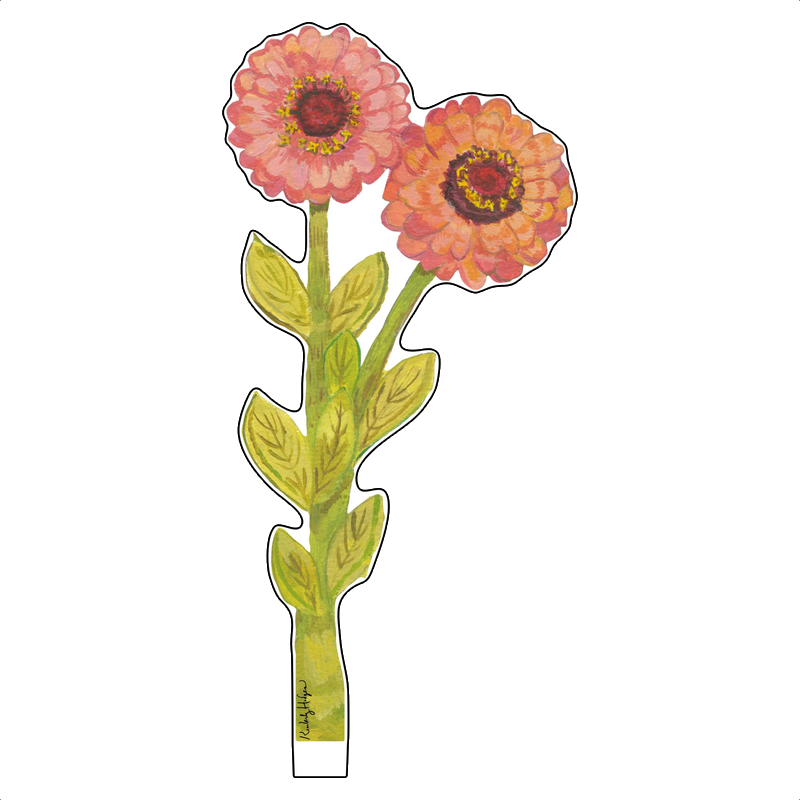
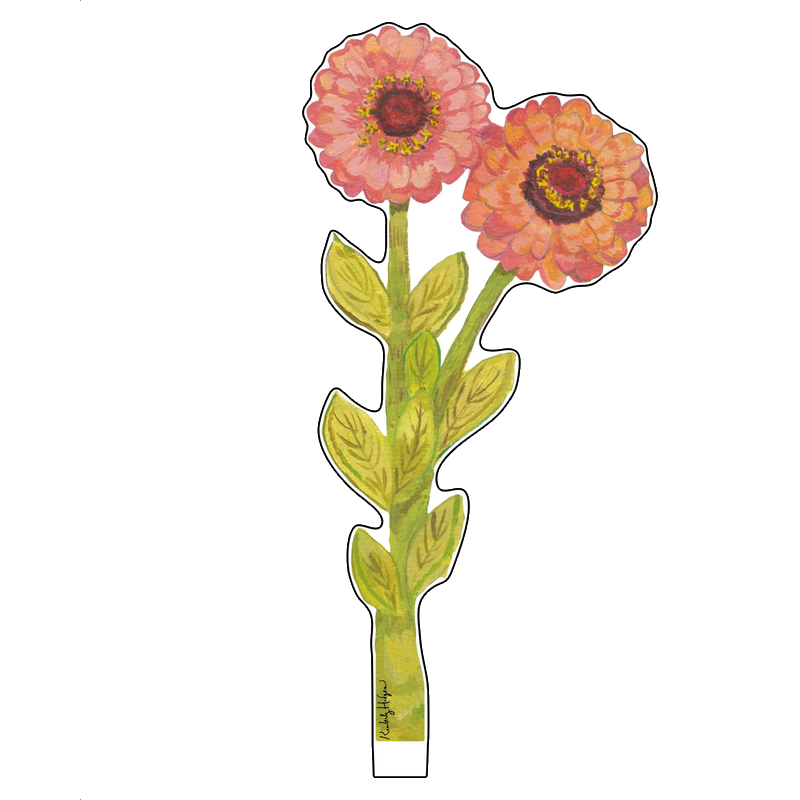
Center all flower stems, stand hover preview, bigger disclaimer
- Re-processed all 21 flowers to physically center stems in images
  (analyzed bottom 15% of pixels, shifted horizontally to align)
- Stand picker shows hover preview: larger image + name + slot info
  (e.g. "Grasses Double - 1 Large + 1 Small")
- Disclaimer text larger (13px, darker)
- Verified all 21 flowers have both LG and SM Shopify variant IDs

Changed region(s): [[0.2812, 0.0312, 0.8438, 0.9688]]

diff --git a/src/components/Canvas/ArrangementCanvas.css b/src/components/Canvas/ArrangementCanvas.css
@@ -50,9 +50,10 @@
   display: flex;
   align-items: center;
   justify-content: center;
+  position: relative;
 }
 
-.stand-float-pick img {
+.stand-float-pick > img {
   width: 100%;
   height: 100%;
   object-fit: contain;
@@ -68,6 +69,47 @@
   border-color: var(--color-accent);
   background: white;
   box-shadow: 0 0 0 2px rgba(184, 134, 11, 0.2);
+}
+
+/* Hover preview */
+.stand-float-preview {
+  display: none;
+  position: absolute;
+  bottom: calc(100% + 12px);
+  left: 50%;
+  transform: translateX(-50%);
+  background: white;
+  border-radius: 14px;
+  padding: 12px;
+  box-shadow: 0 8px 30px rgba(0, 0, 0, 0.15);
+  border: 1px solid var(--color-border);
+  flex-direction: column;
+  align-items: center;
+  gap: 6px;
+  white-space: nowrap;
+  z-index: 100;
+}
+
+.stand-float-preview img {
+  width: 120px;
+  height: 120px;
+  object-fit: contain;
+}
+
+.stand-float-preview span {
+  font-size: 12px;
+  font-weight: 600;
+  color: var(--color-text);
+}
+
+.stand-float-preview-slots {
+  font-size: 11px !important;
+  font-weight: 500 !important;
+  color: var(--color-text-light) !important;
+}
+
+.stand-float-pick:hover .stand-float-preview {
+  display: flex;
 }
 
 /* ---------- Arrangement (flowers + base) ---------- */

diff --git a/src/components/Canvas/ArrangementCanvas.tsx b/src/components/Canvas/ArrangementCanvas.tsx
@@ -113,9 +113,18 @@ export function ArrangementCanvas({
               key={sc.id}
               className={`stand-float-pick ${state.standIndex === i ? "active" : ""}`}
               onClick={() => onChangeStand(i)}
-              title={sc.name}
             >
               <img src={`/stands/${sc.id}.png`} alt={sc.name} />
+              <div className="stand-float-preview">
+                <img src={`/stands/${sc.id}.png`} alt={sc.name} />
+                <span>{sc.name}</span>
+                <span className="stand-float-preview-slots">
+                  {sc.slots.length === 1
+                    ? sc.slots[0].size === "LG" ? "1 Large flower" : "1 Small flower"
+                    : sc.slots.filter(s => s.size === "LG").length + " Large + " +
+                      sc.slots.filter(s => s.size === "SM").length + " Small"}
+                </span>
+              </div>
             </button>
           ))}
         </div>

diff --git a/src/components/Cart/CartBar.css b/src/components/Cart/CartBar.css
@@ -9,8 +9,8 @@
 }
 
 .cart-disclaimer {
-  font-size: 11px;
-  color: #b0a89e;
+  font-size: 13px;
+  color: #9a928a;
   white-space: nowrap;
   font-style: italic;
 }
